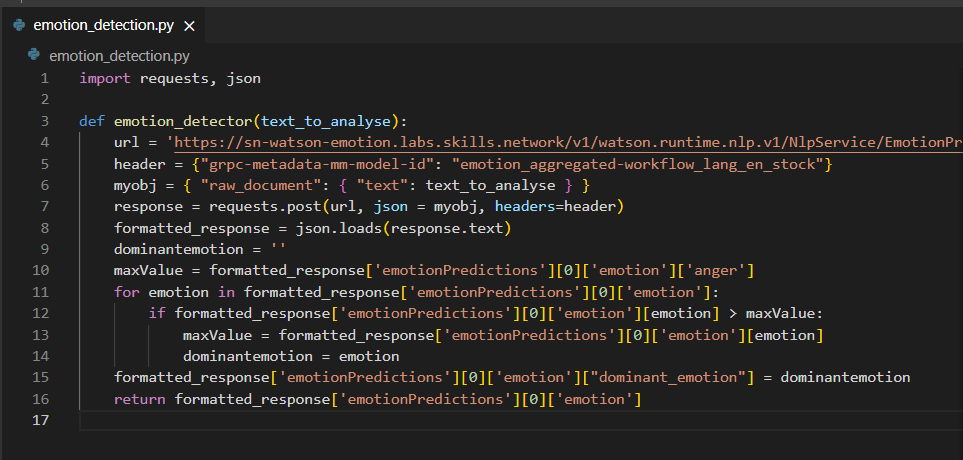
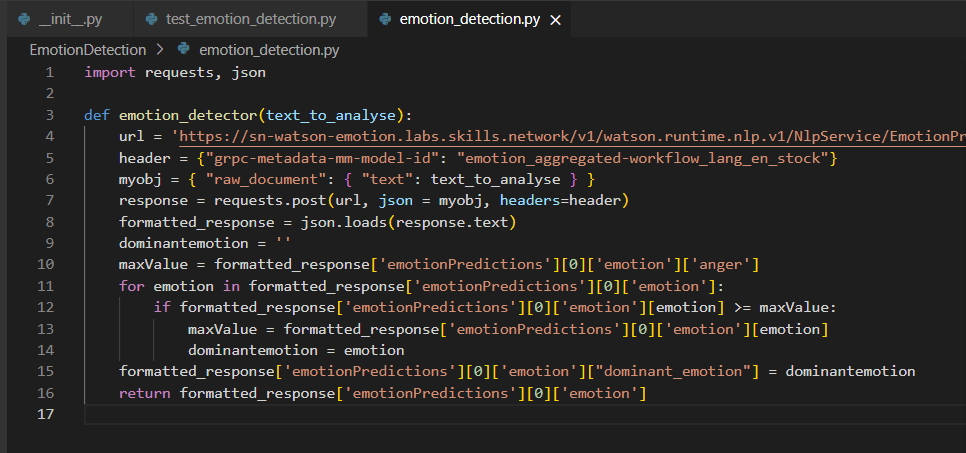
Task 4, 5, 6

diff --git a/test_emotion_detection.py b/test_emotion_detection.py
@@ -1,0 +1,21 @@
+from EmotionDetection.emotion_detection import emotion_detector
+import unittest
+
+class TestEmotionDetection(unittest.TestCase):
+    def test_emotion_detector(self):
+            result_1 = emotion_detector('I am glad this happened')
+            self.assertEqual(result_1['dominant_emotion'], 'joy')
+            
+            result_2 = emotion_detector('I am really mad about this')
+            self.assertEqual(result_2['dominant_emotion'], 'anger')
+            
+            result_3 = emotion_detector('I feel disgusted just hearing about this')
+            self.assertEqual(result_3['dominant_emotion'], 'disgust')
+
+            result_4 = emotion_detector('I am so sad about this')
+            self.assertEqual(result_3['dominant_emotion'], 'sadness')
+
+            result_5 = emotion_detector('I am really afraid that this will happen	')
+            self.assertEqual(result_3['dominant_emotion'], 'fear')
+
+unittest.main()

diff --git a/server.py b/server.py
@@ -1,0 +1,18 @@
+from flask import Flask, render_template, request
+from EmotionDetection.emotion_detection import emotion_detector
+
+app = Flask("Emotion Detection")
+
+@app.route("/emotionDetector")
+def emot_analyzer():
+    text_to_analyze = request.args.get('textToAnalyze')
+
+    response = emotion_detector(text_to_analyze)
+
+    return f"For the given statement, the system response is \
+    'anger': {response['anger']}, \
+    'disgust': {response['disgust']}, \
+    'fear': {response['fear']}, \
+    'joy': {response['joy']} and \
+    'sadness': {response['sadness']}. \
+    The dominant emotion is {response['dominant_emotion']}."

diff --git a/EmotionDetection/emotion_detection.py b/EmotionDetection/emotion_detection.py
@@ -9,7 +9,7 @@ def emotion_detector(text_to_analyse):
     dominantemotion = ''
     maxValue = formatted_response['emotionPredictions'][0]['emotion']['anger']
     for emotion in formatted_response['emotionPredictions'][0]['emotion']:
-        if formatted_response['emotionPredictions'][0]['emotion'][emotion] > maxValue:
+        if formatted_response['emotionPredictions'][0]['emotion'][emotion] >= maxValue:
             maxValue = formatted_response['emotionPredictions'][0]['emotion'][emotion]
             dominantemotion = emotion
     formatted_response['emotionPredictions'][0]['emotion']["dominant_emotion"] = dominantemotion

diff --git a/EmotionDetection/__init__.py b/EmotionDetection/__init__.py
@@ -1,0 +1,1 @@
+from . import emotion_detection
